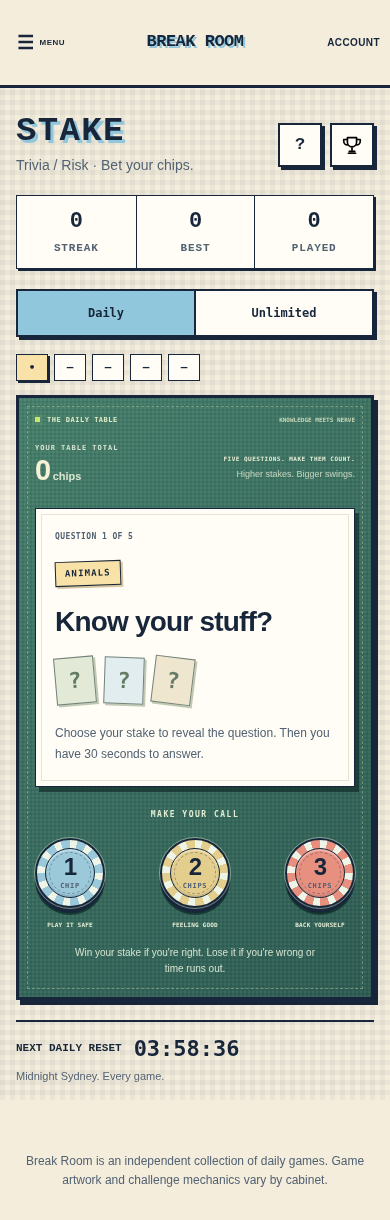
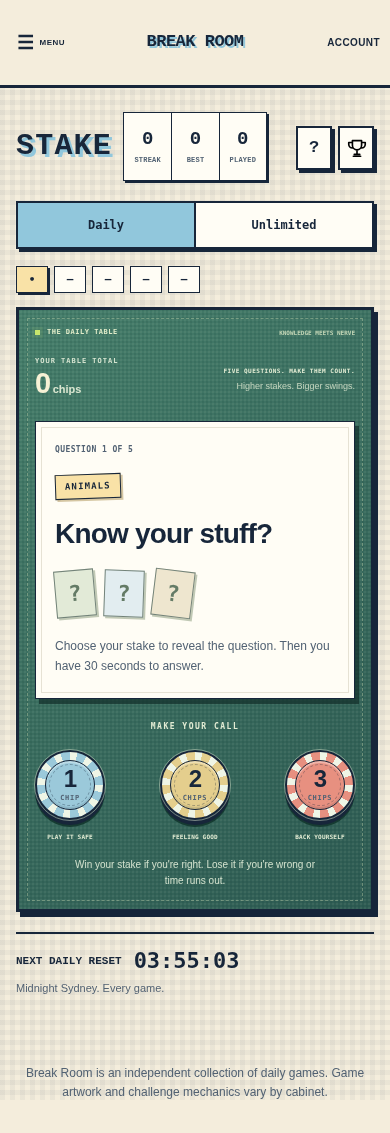
Align Stake stats between title and tools in the header row

diff --git a/games/stake/index.html b/games/stake/index.html
@@ -51,8 +51,8 @@ textarea{resize:none}.big{font-size:44px;font-weight:800;margin:.1em 0}
 <div class="game-menu-heading"><span class="section-meta">BREAK ROOM</span><button class="game-menu-close" id="game-menu-close" type="button" aria-label="Close menu">×</button></div>
 <div class="game-menu-content"><div class="game-menu-group"><span class="section-meta">PLAY NOW</span><a href="../../index.html#daily-games">All games</a><a href="../../games/lowball/index.html">Lowball</a><a href="../../games/stake/index.html">Stake</a><a href="../../games/stack-up/index.html">Stack Up</a></div>
 <div class="game-menu-group"><span class="section-meta">COMING SOON</span><a href="../../games/pixel-pairs/index.html">Pixel Pairs</a><a href="../../games/word-forge/index.html">Word Forge</a><a href="../../games/gridlock/index.html">Gridlock</a><a href="../../games/number-drop/index.html">Number Drop</a><a href="../../games/memory-lane/index.html">Memory Lane</a><a href="../../games/mystery-cabinet/index.html">Mystery Cabinet</a></div><div class="game-menu-group"><span class="section-meta">YOUR ARCADE</span><a href="../../profile.html">My stats</a><a href="../../friends.html">Friends</a><a href="../../login.html">Account / sign in</a></div></div></nav></header><main class="standalone-page"><div class="standalone-wrap">
-<section class="standalone-heading" aria-labelledby="stake-page-title"><div class="standalone-heading-spacer"></div><div class="standalone-title-group"><h1 id="stake-page-title">Stake</h1><p>Trivia / Risk · Bet your chips.</p></div><div class="standalone-tools"><button class="mini-tool" id="help-popup-open" type="button" aria-label="How to play" title="How to play">?</button><button class="mini-tool" id="stats-popup-open" type="button" aria-label="Extended game stats" title="Extended game stats"><img src="../../assets/icons/trophy.svg" alt=""></button></div></section>
-<section class="quick-stats" aria-label="Your Stake stats"><div class="quick-stat"><strong id="stake-streak">0</strong><span>Streak</span></div><div class="quick-stat"><strong id="stake-best">0</strong><span>Best</span></div><div class="quick-stat"><strong id="stake-played">0</strong><span>Played</span></div></section>
+<section class="standalone-heading" aria-labelledby="stake-page-title"><div class="standalone-heading-spacer"></div><div class="standalone-title-group"><h1 id="stake-page-title">Stake</h1><p>Trivia / Risk · Bet your chips.</p></div><section class="quick-stats" aria-label="Your Stake stats"><div class="quick-stat"><strong id="stake-streak">0</strong><span>Streak</span></div><div class="quick-stat"><strong id="stake-best">0</strong><span>Best</span></div><div class="quick-stat"><strong id="stake-played">0</strong><span>Played</span></div></section><div class="standalone-tools"><button class="mini-tool" id="help-popup-open" type="button" aria-label="How to play" title="How to play">?</button><button class="mini-tool" id="stats-popup-open" type="button" aria-label="Extended game stats" title="Extended game stats"><img src="../../assets/icons/trophy.svg" alt=""></button></div></section>
+
 <aside class="live-reset" aria-label="Daily reset">NEXT DAILY RESET<strong data-daily-countdown>--:--:--</strong><p>Midnight Sydney. Every game.</p></aside><div id="app"></div>
 <div class="game-popup-backdrop" id="help-popup" hidden><section class="game-popup" role="dialog" aria-modal="true" aria-labelledby="help-popup-title"><button class="game-popup-close" type="button" data-popup-close aria-label="Close">×</button><p class="popup-kicker">PLAYER GUIDE</p><h2 id="help-popup-title">HOW TO PLAY STAKE</h2><p>Stake chips on your knowledge across five daily trivia questions, or play unlimited rounds.</p><div class="popup-instructions"><p><strong>1. Choose your stake.</strong> Bet 1, 2, or 3 chips before the answer choices appear.</p><p><strong>2. Pick an answer.</strong> You have 30 seconds after placing your bet. A correct answer wins the chips you staked; a wrong answer or timeout loses them. The timer keeps running if you leave or switch modes.</p><p><strong>3. Finish the daily set.</strong> Answer all five questions to see your final score and share your result. Unlimited mode is for practice and does not affect your daily streak.</p></div><button class="button pink popup-done" type="button" data-popup-close>GOT IT</button></section></div>
 <div class="game-popup-backdrop" id="stats-popup" hidden><section class="game-popup" role="dialog" aria-modal="true" aria-labelledby="stats-popup-title"><button class="game-popup-close" type="button" data-popup-close aria-label="Close">×</button><p class="popup-kicker">CABINET RECORD</p><h2 id="stats-popup-title">EXTENDED STATS</h2><p class="stats-popup-game">Stake · Trivia / Risk</p><div class="extended-stats-grid"><div><strong id="stat-played">0</strong><span>RUNS PLAYED</span></div><div><strong id="stat-best">—</strong><span>BEST SCORE</span></div><div><strong id="stat-average">—</strong><span>AVERAGE SCORE</span></div><div><strong id="stat-streak">0</strong><span>CURRENT STREAK</span></div><div><strong id="stat-perfect">0</strong><span>POSITIVE RUNS</span></div><div><strong id="stat-last">—</strong><span>LAST SCORE</span></div></div><p class="popup-footnote">Stats are stored in this browser and do not sync between devices.</p><button class="button pink popup-done" type="button" data-popup-close>BACK TO GAME</button></section></div>

diff --git a/games/stake/table.css b/games/stake/table.css
@@ -23,7 +23,12 @@ body:has(#app) .standalone-page{max-width:1360px;padding-top:30px}.standalone-wr
 .concealed-question i:nth-child(2){background:#e2edf0;transform:rotate(2deg)}.concealed-question i:nth-child(3){background:#eee6cf;transform:rotate(7deg)}
 .has-loss .stake-results .big{color:#a24437!important}.has-loss .table-result-stamp{color:#a24437;border-color:#a24437}
 #app .question-card:focus,#app .stake-results:focus{outline:none}
-/* Centre the personal stats above the Daily / Unlimited switch. */
-.standalone-wrap:has(#app)>.quick-stats{grid-column:1;grid-row:2;justify-self:center;align-self:center;width:min(100%,360px);margin:0}
-#app{grid-row:3/6}
-@media(max-width:650px){.standalone-wrap:has(#app)>.quick-stats{order:1}#app{order:2}}
+/* Title, centred stats and utility buttons share one compact header row. */
+.standalone-heading:has(#stake-page-title){display:grid;grid-template-columns:minmax(0,1fr) minmax(144px,30%) minmax(0,1fr);gap:12px;align-items:center}
+.standalone-heading .quick-stats{grid-column:2;grid-row:1;width:100%;margin:0;gap:0;border-width:1px!important;box-shadow:2px 2px var(--ink)!important;align-self:center}
+.standalone-heading .standalone-tools{grid-column:3;justify-self:end}
+.standalone-heading .quick-stat{padding:12px 4px}.standalone-heading .quick-stat strong{font-size:22px}.standalone-heading .quick-stat span{font-size:8px}
+#app{grid-row:2/5}
+@media(max-width:900px){.standalone-heading .quick-stat{padding:10px 3px}.standalone-heading .quick-stat strong{font-size:20px}.standalone-heading .quick-stat span{font-size:7px;letter-spacing:.03em}.standalone-title-group p{font-size:12px}}
+@media(max-width:650px){#app{order:1}.standalone-heading:has(#stake-page-title){grid-template-columns:minmax(0,1fr) 144px minmax(0,1fr);gap:8px}#stake-page-title{font-size:30px}.standalone-title-group p{display:none}.standalone-heading .standalone-tools{gap:6px}.standalone-heading .mini-tool{width:36px;height:36px}.standalone-heading .quick-stat strong{font-size:19px}.standalone-heading .quick-stat span{font-size:7px}}
+@media(max-width:360px){.standalone-heading:has(#stake-page-title){grid-template-columns:minmax(0,1fr) 124px minmax(0,1fr)}#stake-page-title{font-size:24px}.standalone-heading .mini-tool{width:32px;height:34px;font-size:17px}.standalone-heading .standalone-tools{gap:4px}.standalone-heading .quick-stat{padding:9px 2px}.standalone-heading .quick-stat strong{font-size:18px}.standalone-heading .quick-stat span{font-size:6px}}
